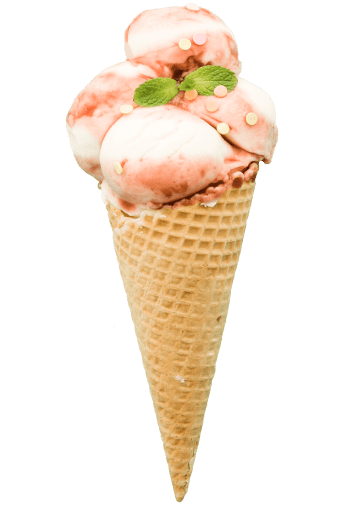
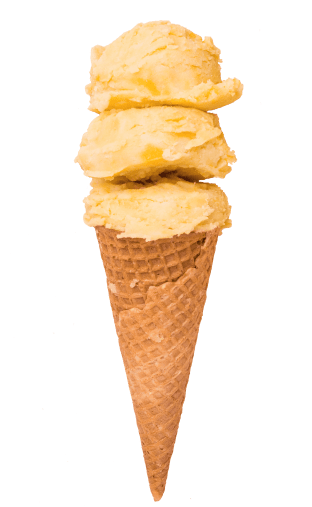
Добаляет правки

Changed region(s): [[0.1731, 0.0, 0.8077, 1.0]]

diff --git a/index.html b/index.html
@@ -98,7 +98,7 @@
                 </p>
                 <p class="field-group field-group-popover">
                   <label class="visually-hidden" for="password">Ваш пароль</label>
-                  <input class="field" type="password" id="password" name="password" required>
+                  <input class="field" type="password" id="password" name="password" placeholder="Введите пароль" required>
                 </p>
                 <div class="form-links">
                   <button class="button button-important form-login-button" type="submit">Войти</button>
@@ -188,14 +188,14 @@
                 <a class="button slider-button" href="#!">Заказать</a>
               </div>
               <div class="slider-image-wrapper">
-                <img class="slider-image" src="images/gallery/ice-cream-gallery-3.png" width="327" height="507"
+                <img class="slider-image" src="images/gallery/ice-cream-gallery-1.png" width="327" height="507"
                   alt="Мороженое нежный пломбир с клубничным джемом.">
               </div>
               <div class="slider-image-buttons">
-                <button class="slider-image-button slider-image-button-two">
+                <button class="slider-image-button slider-image-button-2" type="button" data-to="2">
                   <span class="visually-hidden">Сливочное мороженое со вкусом банана.</span>
                 </button>
-                <button class="slider-image-button slider-image-button-three">
+                <button class="slider-image-button slider-image-button-3" type="button" data-to="3">
                   <span class="visually-hidden">Мороженое карамельный пломбир с маршмеллоу.</span>
                 </button>
               </div>
@@ -213,10 +213,10 @@
                   alt="Сливочное мороженое со вкусом банана.">
               </div>
               <div class="slider-image-buttons">
-                <button class="slider-image-button slider-image-button-three">
+                <button class="slider-image-button slider-image-button-3" type="button" data-to="3">
                   <span class="visually-hidden">Мороженое карамельный пломбир с маршмеллоу.</span>
                 </button>
-                <button class="slider-image-button slider-image-button-first">
+                <button class="slider-image-button slider-image-button-1" type="button" data-to="1">
                   <span class="visually-hidden">Мороженое нежный пломбир с клубничным джемом.</span>
                 </button>
               </div>
@@ -234,10 +234,10 @@
                   alt="Мороженое карамельный пломбир с маршмеллоу.">
               </div>
               <div class="slider-image-buttons">
-                <button class="slider-image-button slider-image-button-first">
+                <button class="slider-image-button slider-image-button-1" type="button" data-to="1">
                   <span class="visually-hidden">Мороженое нежный пломбир с клубничным джемом.</span>
                 </button>
-                <button class="slider-image-button slider-image-button-two">
+                <button class="slider-image-button slider-image-button-2" type="button" data-to="2">
                   <span class="visually-hidden">Сливочное мороженое со вкусом банана.</span>
                 </button>
               </div>
@@ -267,17 +267,17 @@
           <div class="wrapper">
             <ol class="slider-pagination">
               <li class="slider-pagination-item">
-                <button class="slider-pagination-button slider-pagination-button-current" type="button">
+                <button class="slider-pagination-button slider-pagination-button-current" type="button" data-to="1">
                   <span class="visually-hidden">Слайд 1.</span>
                 </button>
               </li>
               <li class="slider-pagination-item">
-                <button class="slider-pagination-button" type="button">
+                <button class="slider-pagination-button" type="button" data-to="2">
                   <span class="visually-hidden">Слайд 2.</span>
                 </button>
               </li>
               <li class="slider-pagination-item">
-                <button class="slider-pagination-button" type="button">
+                <button class="slider-pagination-button" type="button" data-to="3">
                   <span class="visually-hidden">Слайд 3.</span>
                 </button>
               </li>
@@ -583,6 +583,7 @@
         </section>
       </div>
     </div>
+    <script src="./scripts/scripts.js"></script>
 
   </body>
 

diff --git a/styles/styles.css b/styles/styles.css
@@ -447,16 +447,16 @@ body {
   background: rgba(255, 255, 255, 0.3);
   z-index: -1;
 }
-.slider-image-button-two {
-  background-image: url("../images/gallery/ice-cream-gallery.png");
-}
-
-.slider-image-button-three {
+.slider-image-button-2 {
   background-image: url("../images/gallery/ice-cream-gallery-2.png");
 }
 
-.slider-image-button-first {
-  background-image: url("../images/gallery/ice-cream-gallery.png");
+.slider-image-button-3 {
+  background-image: url("../images/gallery/ice-cream-gallery-3.png");
+}
+
+.slider-image-button-1 {
+  background-image: url("../images/gallery/ice-cream-gallery-1.png");
 }
 
 .wrapper {
@@ -582,7 +582,7 @@ body {
 .social-link:hover,
 .social-link:active {
   background: #2D3440;
-  border-color: rgba(252, 252, 252, 0.5);
+  outline-color: rgba(252, 252, 252, 0.5);
 }
 
 .social-link:active {
@@ -591,7 +591,7 @@ body {
 
 .social-link:focus-visible {
   background: #2D3440;
-  border-color: #2D3440;
+  outline-color: #2D3440;
 }
 
 .social-list-first {
@@ -808,7 +808,7 @@ body {
   background-repeat: no-repeat;
   background-size: cover;
   padding: 24px;
-  margin-bottom: 80px;
+  margin-bottom: 78px;
 }
 
 .advantages-wrapper {
@@ -1239,6 +1239,8 @@ body {
   display: grid;
   margin-left: auto;
   max-width: 193px;
+  align-content: start;
+  gap: 8px;
 }
 
 .popover-search {
@@ -1626,7 +1628,6 @@ body {
 
 .pagination-link {
   display: block;
-  padding: 2px 8px;
   box-sizing: border-box;
   text-decoration: none;
   color: #2D3440;
@@ -1634,7 +1635,7 @@ body {
   min-width: 24px;
   text-align: center;
   border-radius: 12px;
-  }
+}
 
 .pagination-prev {
   background-image: url("../images/arrow/left.svg");
@@ -1660,6 +1661,7 @@ body {
   background-repeat: no-repeat;
   background-size: 16px 16px;
   background-position: center;
+  margin-left: 3px;
 }
 
 .pagination-link:focus-visible {

diff --git a/catalog.html b/catalog.html
@@ -444,19 +444,19 @@
             </a>
           </li>
           <li class="pagination-item">
-            <a class="pagination-link pagination-current">1</a>
+            <a class="pagination-link pagination-current" href="#!">1</a>
           </li>
           <li class="pagination-item">
-            <a class="pagination-link" href="#">2</a>
+            <a class="pagination-link" href="#!">2</a>
           </li>
           <li class="pagination-item">
-            <a class="pagination-link" href="#">3</a>
+            <a class="pagination-link" href="#!">3</a>
           </li>
           <li class="pagination-item">
-            <a class="pagination-link" href="#">4</a>
+            <a class="pagination-link" href="#!">4</a>
           </li>
           <li class="pagination-item">
-            <a class="pagination-link" href="#">5</a>
+            <a class="pagination-link" href="#!">5</a>
           </li>
           <li class="pagination-item">
             <a class="pagination-ring pagination-next" href="#!">
